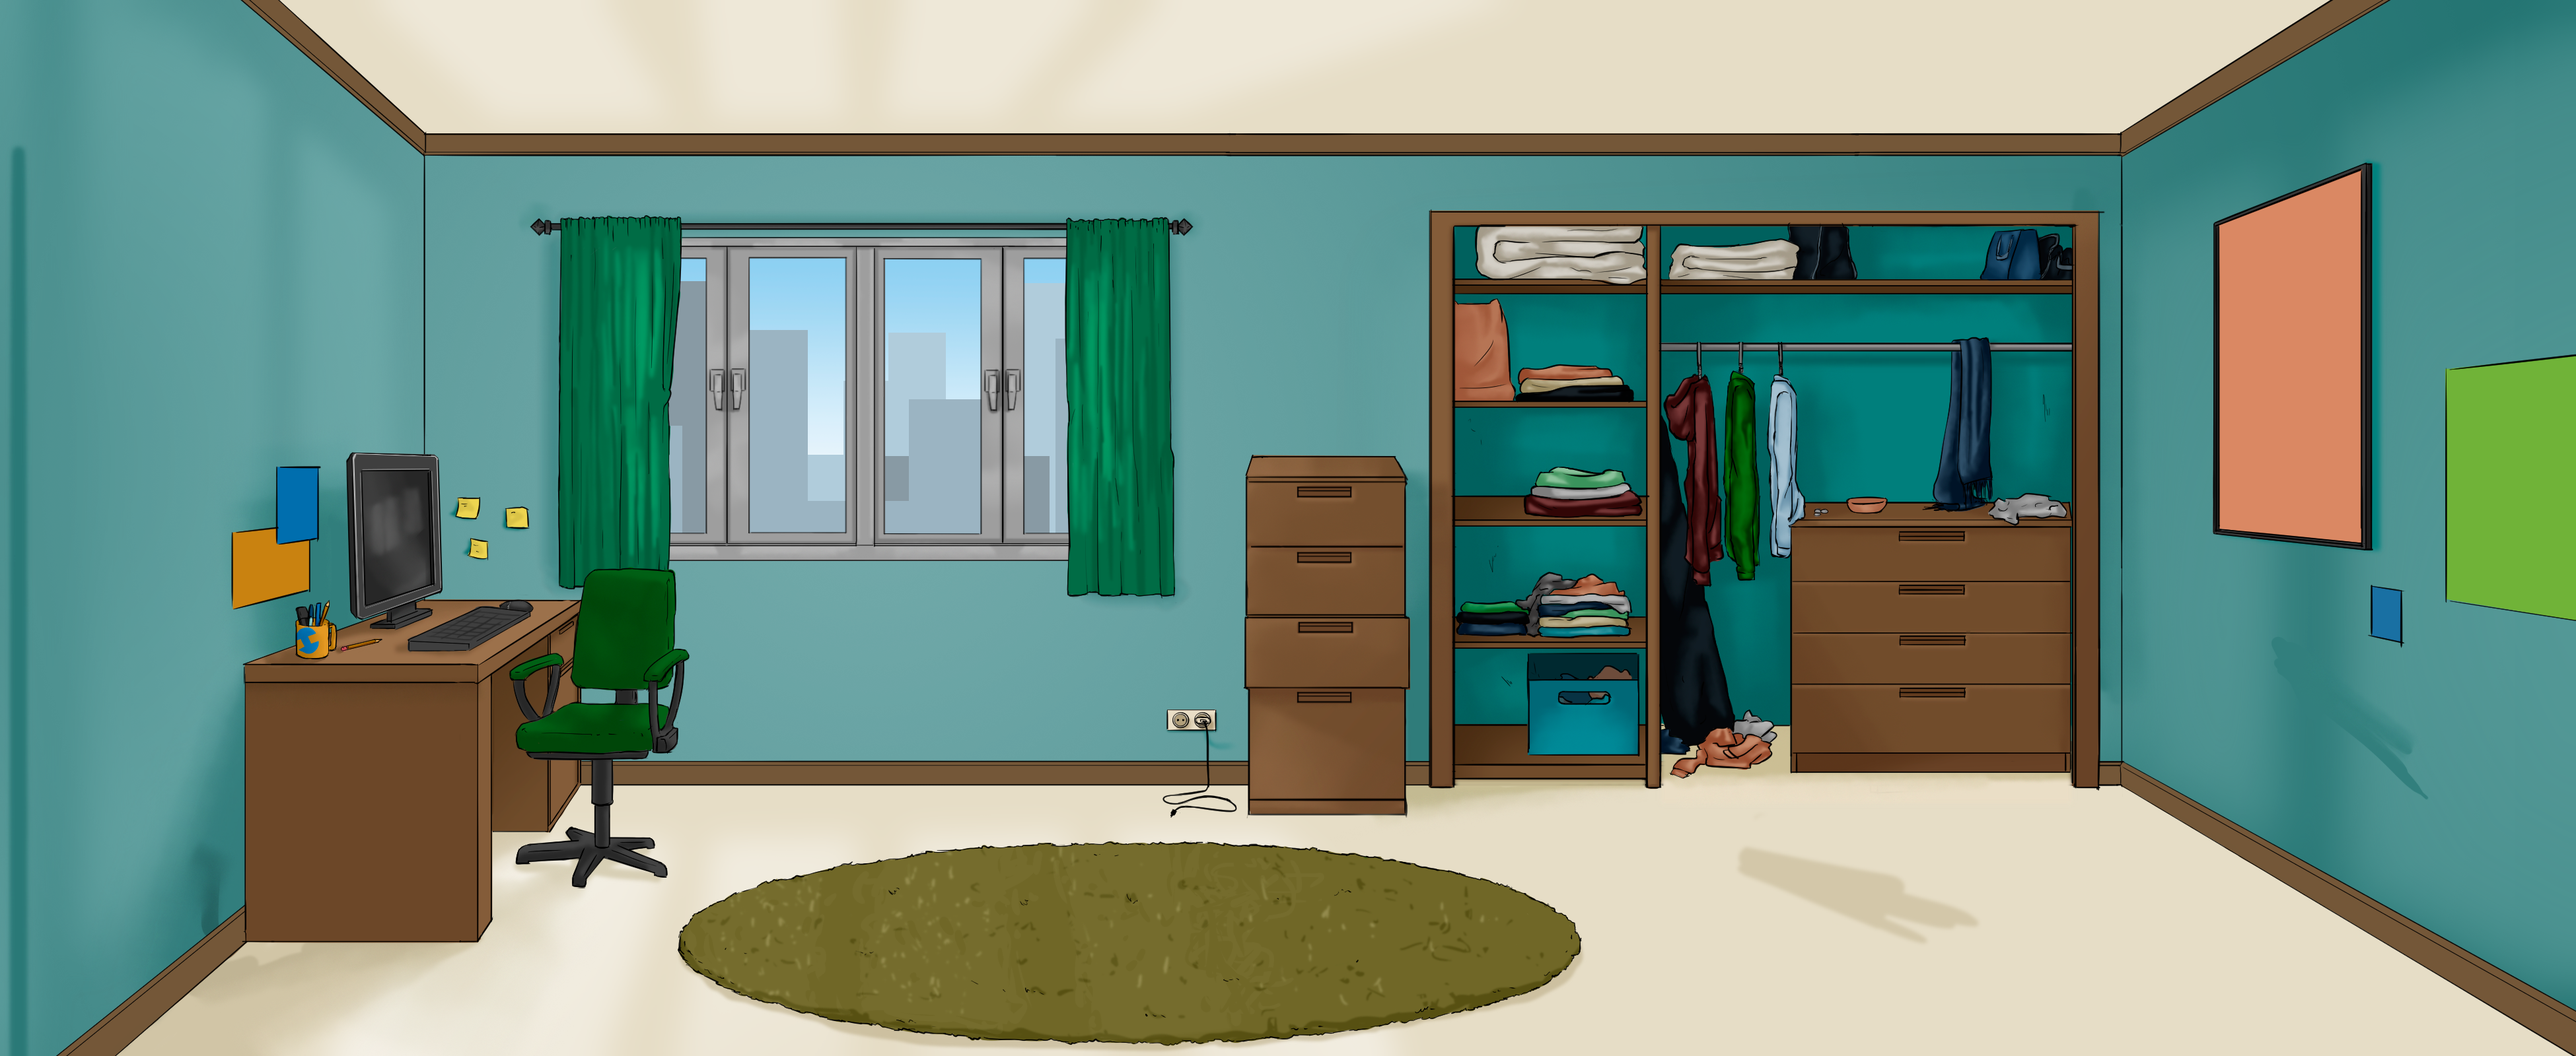
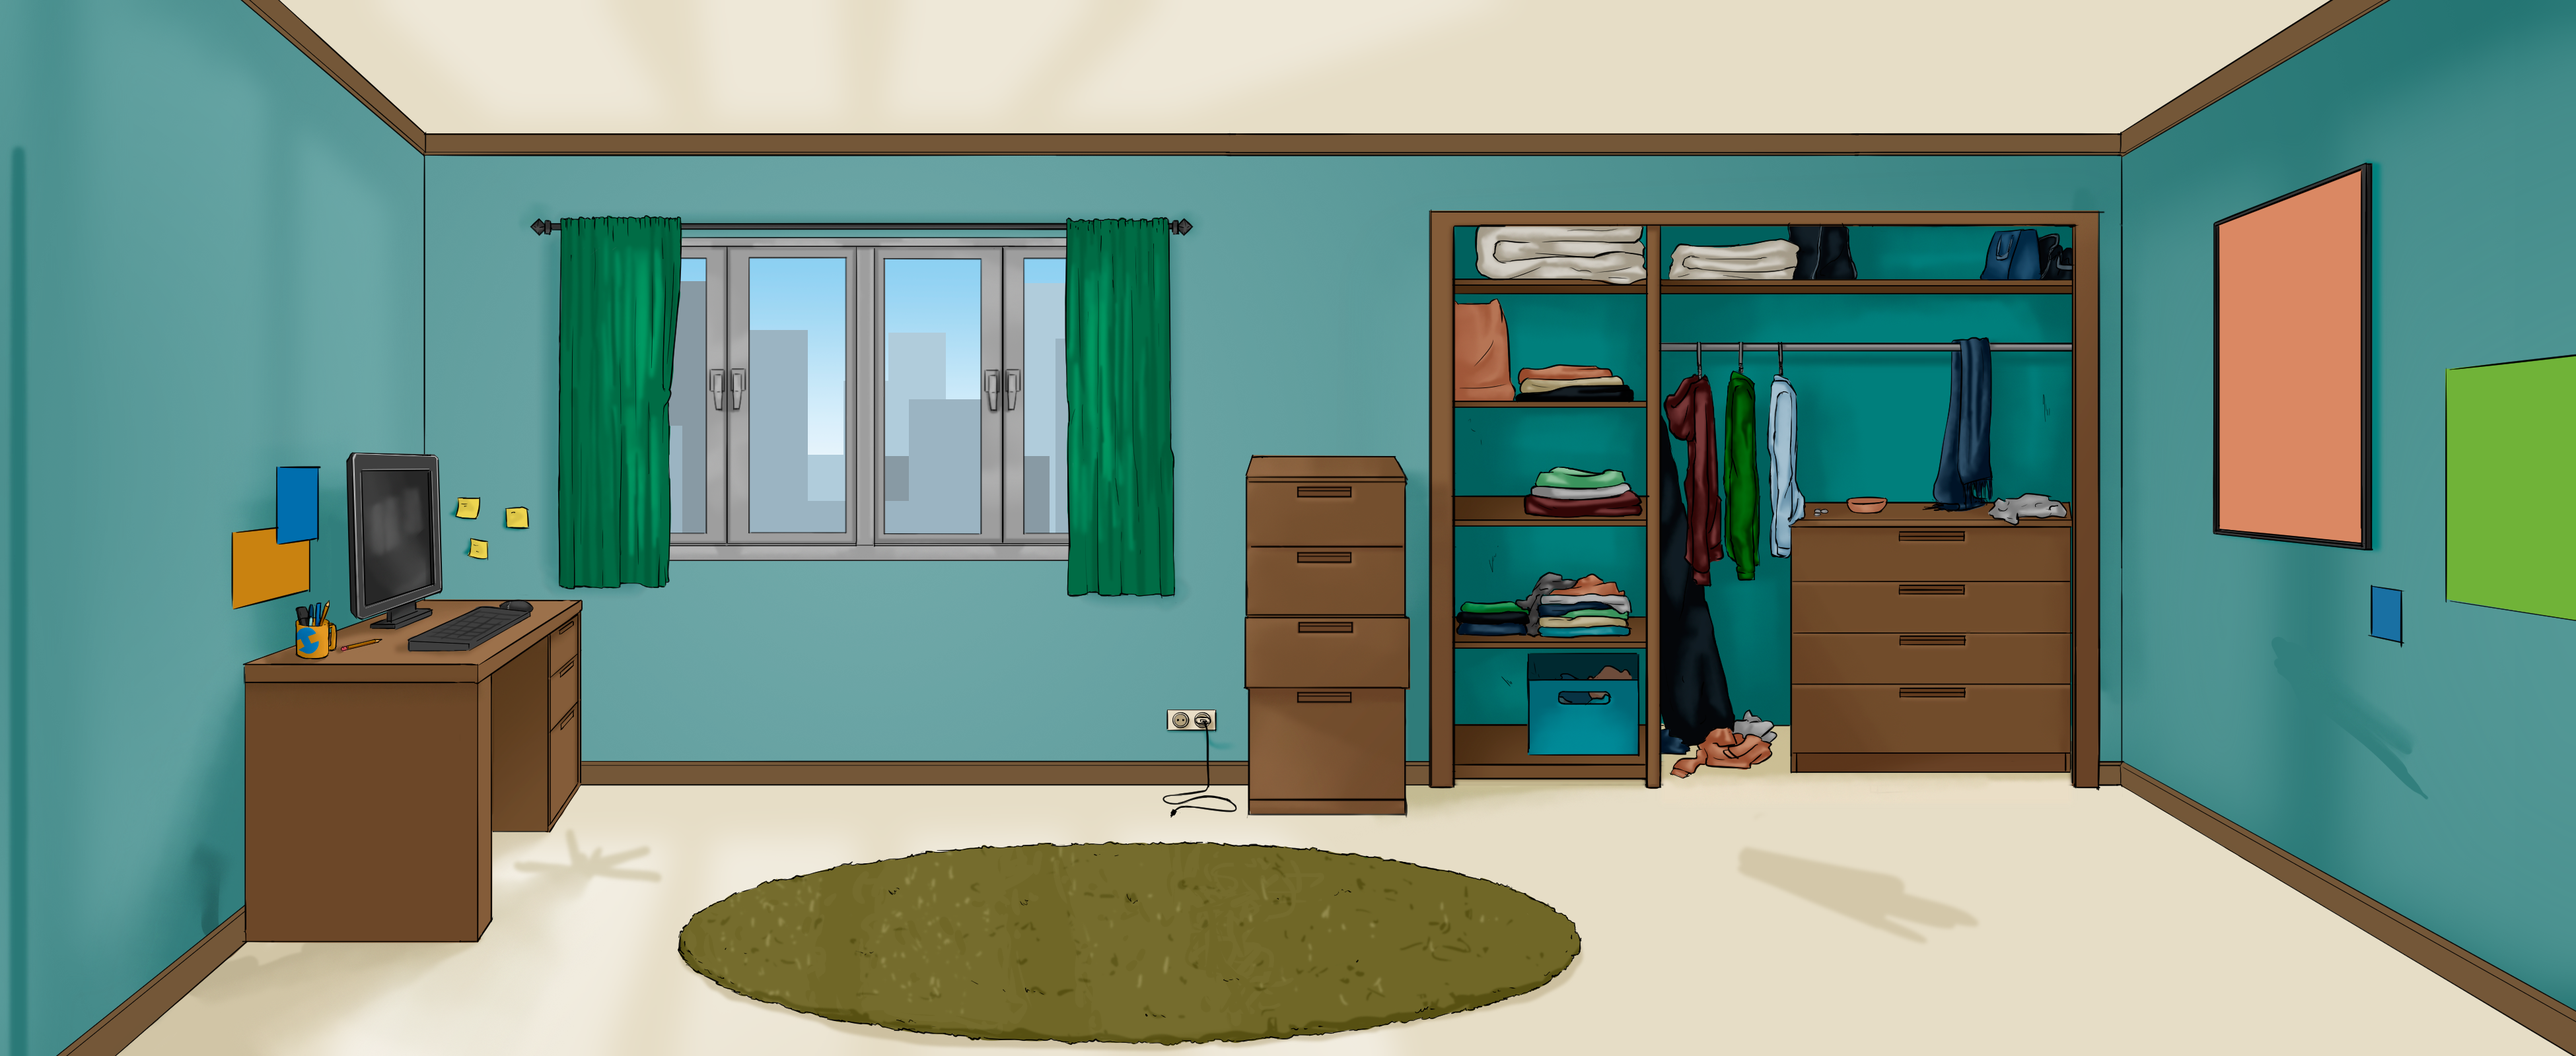
Habitación día 1 por la mañana
Falta leer correctamente el archivo de traducción

Changed region(s): [[0.1862, 0.5312, 0.2792, 0.8438]]

diff --git a/src/scenes/gameLoop/bedroomBase.js b/src/scenes/gameLoop/bedroomBase.js
@@ -26,29 +26,80 @@ export default class BedroomBase extends BaseScene {
 
         // Pone la imagen de fondo con las dimensiones del canvas
         let bg = this.add.image(0, 0, 'bedroomBg').setOrigin(0, 0);
-        let scale = this.CANVAS_HEIGHT / bg.height;
-        bg.setScale(scale);
+        this.scale = this.CANVAS_HEIGHT / bg.height;
+        bg.setScale(this.scale);
 
         this.rightBound = bg.displayWidth;
         
         // Puerta del armario individual
-        let door1Closed = this.add.image(2190 * scale, 330 * scale, 'wardrobeDoor1Closed').setOrigin(0, 0).setScale(scale);
-        let door1Opened = this.add.image(2110 * scale, 330 * scale, 'wardrobeDoor1Opened').setOrigin(0, 0).setScale(scale);
+        let door1Closed = this.add.image(2190 * this.scale, 330 * this.scale, 'wardrobeDoor1Closed').setOrigin(0, 0).setScale(this.scale);
+        let door1Opened = this.add.image(2110 * this.scale, 330 * this.scale, 'wardrobeDoor1Opened').setOrigin(0, 0).setScale(this.scale);
         super.toggleDoor(door1Closed, door1Opened);
 
         // Puerta izquierda del armario
-        let door2Closed = this.add.image(2500 * scale, 330 * scale, 'wardrobeDoor2Closed').setOrigin(0, 0).setScale(scale);
-        let door2Opened = this.add.image(2435 * scale, 307 * scale, 'wardrobeDoor2Opened').setOrigin(0, 0).setScale(scale);
+        let door2Closed = this.add.image(2500 * this.scale, 330 * this.scale, 'wardrobeDoor2Closed').setOrigin(0, 0).setScale(this.scale);
+        let door2Opened = this.add.image(2435 * this.scale, 307 * this.scale, 'wardrobeDoor2Opened').setOrigin(0, 0).setScale(this.scale);
         super.toggleDoor(door2Closed, door2Opened);
 
         // Puerta derecha del armario
-        let door3Closed = this.add.image(3155 * scale, 330 * scale, 'wardrobeDoor3Closed').setOrigin(1, 0).setScale(scale);
-        let door3Opened = this.add.image(3220 * scale, 330 * scale, 'wardrobeDoor3Opened').setOrigin(1, 0).setScale(scale);
+        let door3Closed = this.add.image(3155 * this.scale, 330 * this.scale, 'wardrobeDoor3Closed').setOrigin(1, 0).setScale(this.scale);
+        let door3Opened = this.add.image(3220 * this.scale, 330 * this.scale, 'wardrobeDoor3Opened').setOrigin(1, 0).setScale(this.scale);
         super.toggleDoor(door3Closed, door3Opened);
 
+
+        // Interior de los armarios. Se reordenan las profundidades de las puertas de los armarios
+        // para hacer click sobre el elemento correcto. Al hacer click sobre el interior del armario,
+        // se cambia el nodo en el dialogManager. El nodo que se pone es nulo por defecto, y se tiene
+        // que establecer en la creacion de la escena 
+        this.wardrobe1Node = null;
+        this.wardrobe2Node = null;
+
+        let wardrobe1 = this.add.rectangle(door1Closed.x, door1Closed.y, door1Closed.displayWidth, door1Closed.displayHeight, 0xfff, 0).setOrigin(0, 0);
+        door1Closed.setDepth(bg.depth + 3);
+        door1Opened.setDepth(door1Closed.depth - 1);
+        wardrobe1.setDepth(door1Opened.depth - 1);
+        wardrobe1.setInteractive();
+        wardrobe1.on('pointerdown', () => {
+            if (door1Opened.visible) {
+                this.dialogManager.setNode(this.wardrobe1Node)
+            }
+        });
+
+        let wardrobe2 = this.add.rectangle(door2Closed.x, door2Closed.y, door2Closed.displayWidth + door3Closed.displayWidth - 15, door1Closed.displayHeight, 0xfff, 0).setOrigin(0, 0);
+        door2Closed.setDepth(bg.depth + 4);
+        door2Opened.setDepth(door2Closed.depth - 1);
+        door3Closed.setDepth(bg.depth + 3);
+        door3Opened.setDepth(door2Closed.depth - 1);
+        wardrobe2.setDepth(door2Opened.depth - 1);
+        wardrobe2.setInteractive();
+        wardrobe2.on('pointerdown', () => {
+            if (door2Opened.visible || door3Opened.visible) {
+                this.dialogManager.setNode(this.wardrobe2Node)
+            }
+        })
+
+
+        // Ordenador
+        // Al hacer click sobre el, se cambia el nodo en el dialogManager, y si
+        // se lanza el evento turnPC, se cambia a la escena del ordenador
+        this.pcNode = null;
+
+        let pc = this.add.rectangle(276, 360, 150, 162, 0xfff, 0).setOrigin(0, 0);
+        pc.setInteractive();
+        pc.on('pointerdown', () => {
+            this.dialogManager.setNode(this.pcNode);
+        });
+        this.dispatcher.add("turnPC", this, (obj) => {
+            console.log(obj);
+            this.gameManager.switchToComputer();
+        });
+
+        // Silla
+        this.chair = this.add.image(770 * this.scale, 859 * this.scale, 'bedroomChair').setOrigin(0, 0).setScale(this.scale);
+
         // Puerta de la habitacion
-        let doorClosed = this.add.image(6, this.CANVAS_HEIGHT, 'bedroomDoorClosed').setOrigin(0, 1).setScale(scale);
-        let doorOpened = this.add.image(6, this.CANVAS_HEIGHT, 'bedroomDoorOpened').setOrigin(0, 1).setScale(scale);
+        let doorClosed = this.add.image(6, this.CANVAS_HEIGHT, 'bedroomDoorClosed').setOrigin(0, 1).setScale(this.scale);
+        let doorOpened = this.add.image(6, this.CANVAS_HEIGHT, 'bedroomDoorOpened').setOrigin(0, 1).setScale(this.scale);
         super.toggleDoor(doorClosed, doorOpened, false);
 
         // Al hacer click sobre la puerta abierta, se pasa a la siguiente escena
@@ -56,11 +107,20 @@ export default class BedroomBase extends BaseScene {
             this.gameManager.changeScene(this.nexScene);
         });
         
-        // Cama
-        this.bed = this.add.image(bg.displayWidth, this.CANVAS_HEIGHT, 'bed').setOrigin(1, 1).setScale(scale);
-        this.bed.setInteractive();
 
+        // Cama
+        // Al igual que con el interior de los armarios, se recoloca su profundidad y al
+        // hacer click sobre ella, se cambia el nodo en el dialogManager
+        this.bed = this.add.image(bg.displayWidth, this.CANVAS_HEIGHT, 'bed').setOrigin(1, 1).setScale(this.scale);
+        this.bed.setInteractive();
+        this.bed.setDepth(10);
+        this.bedNode = null;
+        this.bed.on('pointerdown', () => {
+            this.dialogManager.setNode(this.bedNode)
+        })
         
+
+        this.gameManager.setValue(this.gameManager.bagPicked, false);
         this.cameras.main.scrollX = bg.displayWidth - this.CANVAS_WIDTH;
 
     }

diff --git a/src/managers/gameManager.js b/src/managers/gameManager.js
@@ -36,7 +36,9 @@ export default class GameManager {
 
         // Blackboard
         this.map = new Map();
-        this.map.set("bag", false);
+        
+        this.bagPicked = "bagPicked";
+        this.map.set("bagPicked", false);
 
         this.isLate = "isLate";
         this.map.set(this.isLate, false);
@@ -223,20 +225,22 @@ export default class GameManager {
         this.computerScene = this.currentScene.scene.get(computerSceneName);
         this.computerScene.scene.sleep();
 
-        // Pasa a la escena inicial con los parametros text, onComplete y onCompleteDelay
-        let sceneName = 'TextOnlyScene';
-        this.changeScene(sceneName, {
-            // El texto de se coge del a archivo de traducciones
-            text: this.i18next.t("day1.start", { ns: "transitionScenes", returnObjects: true }),
-            onComplete: () => {
-                // Al llamar a onComplete, se cambiara a la escena de la alarma
-                this.changeScene('AlarmScene');
-            },
-            onCompleteDelay: 500
-        });
 
-        // let sceneName = 'BedroomDay1';
-        // this.changeScene(sceneName);
+        let sceneName = 'BedroomMorningDay1';
+
+        // Pasa a la escena inicial con los parametros text, onComplete y onCompleteDelay
+        // let sceneName = 'TextOnlyScene';
+        // this.changeScene(sceneName, {
+        //     // El texto de se coge del a archivo de traducciones
+        //     text: this.i18next.t("day1.start", { ns: "transitionScenes", returnObjects: true }),
+        //     onComplete: () => {
+        //         // Al llamar a onComplete, se cambiara a la escena de la alarma
+        //         this.changeScene('AlarmScene');
+        //     },
+        //     onCompleteDelay: 500
+        // });
+        
+        this.changeScene(sceneName);
     }
 
     setUserInfo(userInfo) {
@@ -259,6 +263,8 @@ export default class GameManager {
     }
 
     switchToComputer() {
+        this.UIManager.phoneManager.activate(false);
+        
         // se duerme la escena actual
         this.currentScene.scene.sleep();
         // se cambia a la escena del ordenador
@@ -267,6 +273,8 @@ export default class GameManager {
     }
 
     leaveComputer() {
+        this.UIManager.phoneManager.activate(true);
+
         this.computerScene.scene.sleep();
         this.currentScene.scene.wake();
     }

diff --git a/src/managers/phoneManager.js b/src/managers/phoneManager.js
@@ -76,7 +76,7 @@ export default class PhoneManager {
         this.resetCamEvent = "resetCam";
         this.wakeUpEvent = "wakeUp";
 
-        this.activate(false);
+        this.showPhone(false);
     }
 
 
@@ -301,12 +301,23 @@ export default class PhoneManager {
 
     }
 
+
     /**
-     * Activa/desactiva el telefono de manera inmediata
-     * @param {Boolean} active - true si se va a activar, false en caso contrario
+     * Muestra/oculta toda la interfaz del telefono (incluyendo el icono y las notificaciones) 
+     * @param {Boolean} active - true si se va a mostrar, false en caso contrario
      */
     activate(active) {
-        if ((this.phone.visible && !active) || (!this.phone.visible && active)) {
+        this.showPhone(false);
+        this.icon.visible = active;
+        this.notifications.visible = this.notificationAmount > 0;
+    }
+    
+    /**
+     * Muestra/oculta el telefono de manera inmediata
+     * @param {Boolean} active - true si se va a activar, false en caso contrario
+     */
+    showPhone(show) {
+        if ((this.phone.visible && !show) || (!this.phone.visible && show)) {
             this.toggling = false;
             this.togglePhone(0);
         }
@@ -382,12 +393,8 @@ export default class PhoneManager {
                 this.wakeUpMessage.visible = false;
                 this.icon.visible = true;
 
-                if (this.notificationAmount > 0) {
-                    this.notifications.visible = true;
-                }
-                else {
-                    this.notifications.visible = false;
-                }
+                this.notifications.visible = this.notificationAmount > 0;
+                
                 // Envia el evento de reiniciar la camara y el de despertarse
                 this.dispatcher.dispatch(this.resetCamEvent, {});
                 this.dispatcher.dispatch(this.wakeUpEvent, {});
@@ -406,7 +413,7 @@ export default class PhoneManager {
         // Oculta el icono del movil, las notificaciones, y el propio movil
         this.icon.visible = false;
         this.notifications.visible = false;
-        this.activate(false);
+        this.showPhone(false);
 
         // Cuando termina la animacion de desactivarse, va a la pantalla de la alarma y
         // activa el bloqueo del fondo (hay que hacerlo cuando termine la animacion aunque

diff --git a/src/scenes/bootScene.js b/src/scenes/bootScene.js
@@ -128,7 +128,8 @@ export default class BootScene extends Phaser.Scene {
             // en cualquier idioma (aunque o existiese)
             supportedLngs: ['en', 'es'],
             // namespaces que se cargan para cada uno de los idiomas
-            ns: ['titleMenu', 'userInfoMenu', 'names', 'phoneInfo', 'transitionScenes',
+            ns: ['titleMenu', 'userInfoMenu', 'names', 'phoneInfo', 
+                'transitionScenes', 'day1/bedroomMorningDay1',
                 'momDialog', 'dadDialog', 'chat1', 'computer'],   // TEST
             preload: ['en', 'es'],
             // mostrar informacion de ayuda por consola
@@ -170,6 +171,7 @@ export default class BootScene extends Phaser.Scene {
         this.load.json('dadDialog', './dadDialog.json');
         this.load.json('chat1', './chat1.json');
         this.load.json('computer', './computer.json');
+        this.load.json('bedroomMorningDay1', './day1/bedroomMorningDay1.json');
     }
 
     loadSpinalAnims() {
@@ -189,6 +191,8 @@ export default class BootScene extends Phaser.Scene {
         this.load.image('bedroomCeiling', 'bedroom/bedroomCeiling.png');
         this.load.image('bedroomBg', 'bedroom/bedroomBase.png');
         this.load.image('bed', 'bedroom/bed.png');
+        this.load.image('bag', 'bedroom/bag.png');
+        this.load.image('bedroomChair', 'bedroom/bedroomChair.png');
         this.load.image('bedroomDoorClosed', 'bedroom/bedroomDoorClosed.png');
         this.load.image('bedroomDoorOpened', 'bedroom/bedroomDoorOpened.png');
         this.load.image('bedroomJacket', 'bedroom/bedroomJacket.png');
@@ -201,7 +205,6 @@ export default class BootScene extends Phaser.Scene {
         this.load.image('wardrobeDoor2Opened', 'bedroom/wardrobeDoor2Opened.png');
         this.load.image('wardrobeDoor3Closed', 'bedroom/wardrobeDoor3Closed.png');
         this.load.image('wardrobeDoor3Opened', 'bedroom/wardrobeDoor3Opened.png');
-
 
     }
 

diff --git a/src/scenes/gameLoop/day1/bedroomMorningDay1.js b/src/scenes/gameLoop/day1/bedroomMorningDay1.js
@@ -9,5 +9,38 @@ export default class BedroomMorningDay1 extends BedroomBase {
         super.create();
 
         this.nexScene = "Test";
+        
+        let nodes = this.cache.json.get('bedroomMorningDay1');
+
+        this.wardrobe1Node = super.readNodes("root", nodes.wardrobe1, "day1/bedroomMorningDay1", true);
+        this.wardrobe2Node = super.readNodes("root", nodes.wardrobe2, "day1/bedroomMorningDay1", true);
+        this.pcNode = super.readNodes("root", nodes.pc, "day1/bedroomMorningDay1", true);
+        this.bedNode = super.readNodes("root", nodes.bed, "day1/bedroomMorningDay1", true);
+
+        // Mochila
+        let bagNode = super.readNodes("root", nodes.bag, "day1/bedroomMorningDay1", true);
+        let bag = this.add.image(170, this.CANVAS_HEIGHT - 170, 'bag').setOrigin(0, 0).setScale(this.scale);
+        bag.setInteractive();
+        bag.on('pointerdown', () => {
+            this.dialogManager.setNode(bagNode)
+        });
+
+        // Chaqueta
+        this.add.image(852 * this.scale + 1, 848 * this.scale - 1, 'bedroomJacket').setOrigin(0, 0).setScale(this.scale);
+
+
+        this.dispatcher.add("turnPC", this, (obj) => {
+            console.log(obj);
+            this.gameManager.setValue(this.gameManager.isLate, true);
+            let hour = this.i18next.t("clock.pcLateHour", { ns: "phoneInfo", returnObjects: true });
+            this.phoneManager.phone.setDayInfo(hour, "");
+        });
+        this.dispatcher.add("pickBag", this, (obj) => {
+            console.log(obj);
+            this.gameManager.setValue(this.gameManager.bagPicked, true);
+            bag.visible = false;
+        });
+        
+        this.cameras.main.scrollX = 0;
     }
 }

diff --git a/src/scenes/test.js b/src/scenes/test.js
@@ -9,7 +9,7 @@ export default class Test extends BaseScene {
     // Metodo que se llama al terminar de crear la escena. 
     onCreate() {
         super.onCreate();
-        // this.phoneManager.activate(true);
+        // this.phoneManager.showPhone(true);
         // this.phoneManager.openEyesAnimation();
         // this.phoneManager.phone.toAlarmScreen();
         this.phoneManager.topLid.visible = false;
@@ -24,10 +24,10 @@ export default class Test extends BaseScene {
         let test3 = this.cache.json.get('chat1');
         let computerTest = this.cache.json.get('computer');
 
-        let momNode = super.readNodes("root", test1, "momDialog", this.gameManager.getUserInfo().name, this.gameManager.getUserInfo().gender, true);
-        let dadNode = super.readNodes("root", test2, "dadDialog", this.gameManager.getUserInfo().name, this.gameManager.getUserInfo().gender, true);
-        let choices = super.readNodes("root", test3, "chat1", this.gameManager.getUserInfo().name, this.gameManager.getUserInfo().gender, true);
-        let computerNode = super.readNodes("root1", computerTest, "computer", this.gameManager.getUserInfo().name, this.gameManager.getUserInfo().gender, true);
+        let momNode = super.readNodes("root", test1, "momDialog", true);
+        let dadNode = super.readNodes("root", test2, "dadDialog", true);
+        let choices = super.readNodes("root", test3, "chat1", true);
+        let computerNode = super.readNodes("root1", computerTest, "computer", true);
 
         // Telefono
         let chatName = this.i18next.t("textMessages.chat1", { ns: "phoneInfo", returnObjects: true });

diff --git a/src/scenes/gameLoop/baseScene.js b/src/scenes/gameLoop/baseScene.js
@@ -41,6 +41,8 @@ export default class BaseScene extends Phaser.Scene {
             scale: this.portraitScale
         };
 
+        this.scale = 1;
+        
         this.leftBound = 0;
         this.rightBound = this.CANVAS_WIDTH;
         this.START_SCROLLING = 30;
@@ -103,7 +105,10 @@ export default class BaseScene extends Phaser.Scene {
     * traducciones es el que se pasa en el parametro namespace, y tiene que pasarse un string con el nombre del
     * archivo sin la extension .json
     */
-    readNodes(id, file, namespace, playerName, context, getObjs) {
+    readNodes(id, file, namespace, getObjs) {
+        let playerName = this.gameManager.getUserInfo().name;
+        let context = this.gameManager.getUserInfo().gender; 
+
         // Crea el nodo y guarda sus atributos (se estableceran en el nodo al final)
         let node = null;
         let nodeId = id;
